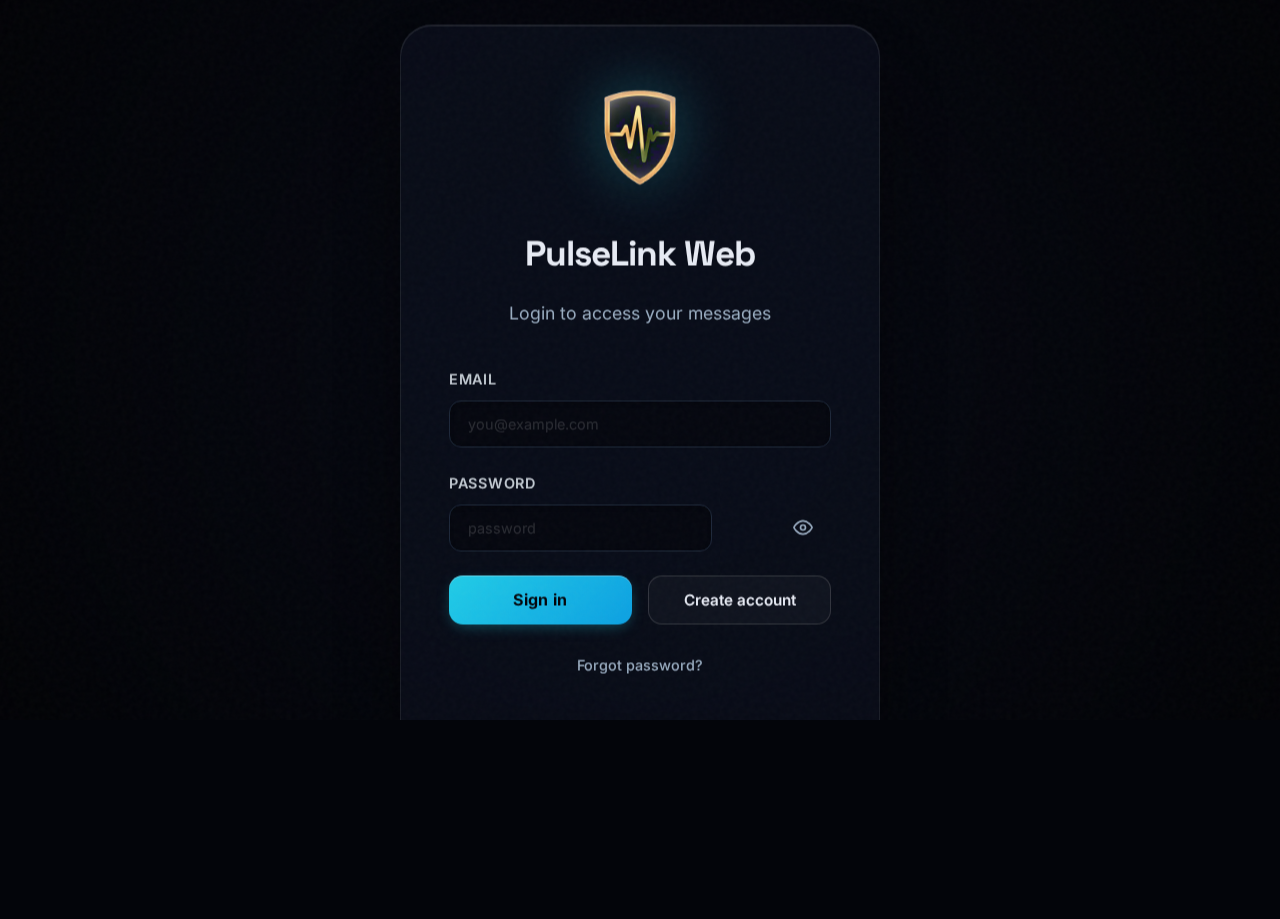
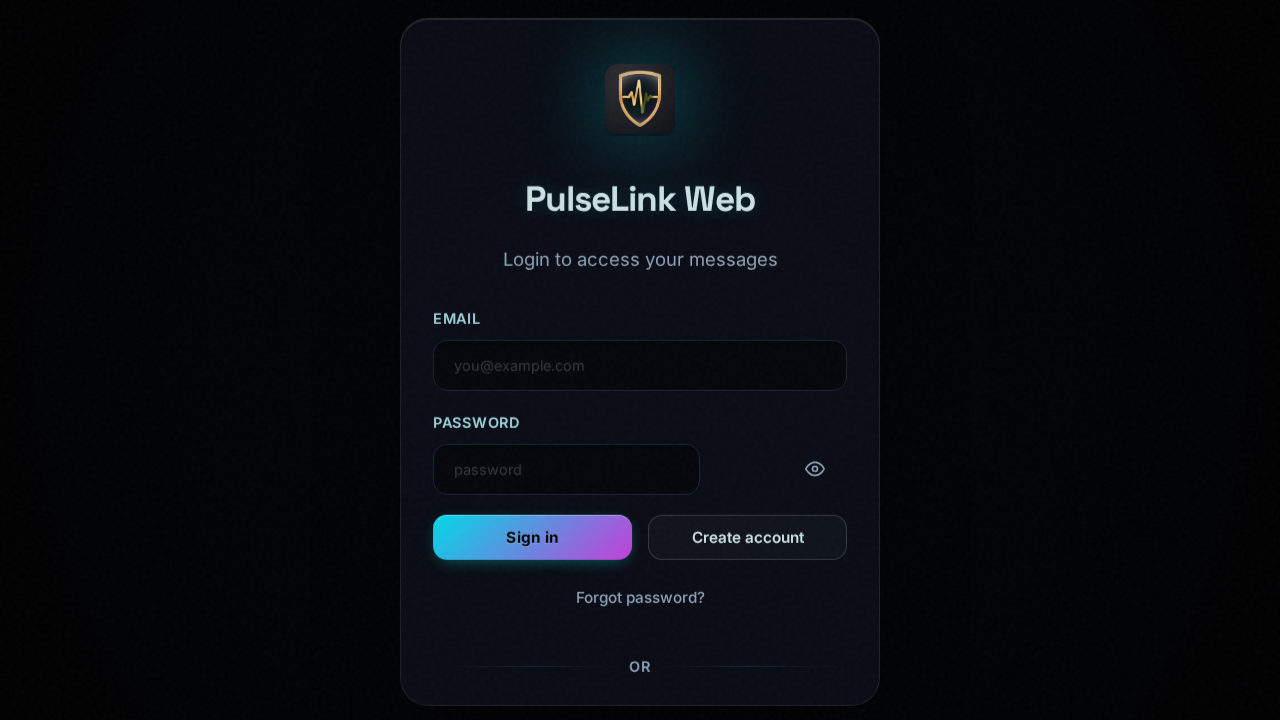
Fix SMS login and email link issues in web app
- Implement Phone Authentication using Firebase Auth
- Conditionally render Phone Auth UI in Login screen
- Fix `mailto` link in Extensions page to include subject and body
- Update `visual.spec.js` to verify "Sign in with Phone" button presence

diff --git a/web/src/App.jsx b/web/src/App.jsx
@@ -9,7 +9,9 @@ import {
   onAuthStateChanged,
   createUserWithEmailAndPassword,
   signInWithEmailAndPassword,
-  sendPasswordResetEmail
+  sendPasswordResetEmail,
+  RecaptchaVerifier,
+  signInWithPhoneNumber
 } from "firebase/auth";
 import {
   collection,
@@ -2023,6 +2025,79 @@ function App() {
   const [isSavingProfile, setIsSavingProfile] = useState(false);
   const [activePanel, setActivePanel] = useState('home');
 
+  // Phone Auth State
+  const [isPhoneAuthMode, setIsPhoneAuthMode] = useState(false);
+  const [phoneNumber, setPhoneNumber] = useState('');
+  const [verificationCode, setVerificationCode] = useState('');
+  const [confirmationResult, setConfirmationResult] = useState(null);
+  const recaptchaVerifierRef = useRef(null);
+
+  // Initialize Recaptcha
+  useEffect(() => {
+    if (!auth || user || !isPhoneAuthMode || recaptchaVerifierRef.current) return;
+    try {
+      // Ensure the container exists before initializing
+      const container = document.getElementById('recaptcha-container');
+      if (container) {
+        recaptchaVerifierRef.current = new RecaptchaVerifier(auth, 'recaptcha-container', {
+          'size': 'normal',
+          'callback': (response) => {
+            // reCAPTCHA solved, allow signInWithPhoneNumber.
+          },
+          'expired-callback': () => {
+            // Response expired. Ask user to solve reCAPTCHA again.
+          }
+        });
+        recaptchaVerifierRef.current.render();
+      }
+    } catch (err) {
+      console.error("Recaptcha init failed", err);
+    }
+  }, [user, isPhoneAuthMode]);
+
+  const handleSendCode = async () => {
+    if (!phoneNumber) {
+      setAuthError("Enter phone number.");
+      return;
+    }
+    setIsLoggingIn(true);
+    setAuthError('');
+    try {
+      const appVerifier = recaptchaVerifierRef.current;
+      const result = await signInWithPhoneNumber(auth, phoneNumber, appVerifier);
+      setConfirmationResult(result);
+      setAuthError('');
+    } catch (error) {
+      console.error("SMS send failed", error);
+      setAuthError(error?.message ?? "SMS send failed.");
+      // Reset recaptcha on error so user can try again
+      if (recaptchaVerifierRef.current) {
+        recaptchaVerifierRef.current.clear();
+        recaptchaVerifierRef.current = null;
+      }
+    } finally {
+      setIsLoggingIn(false);
+    }
+  };
+
+  const handleVerifyCode = async () => {
+    if (!verificationCode || !confirmationResult) {
+      setAuthError("Enter verification code.");
+      return;
+    }
+    setIsLoggingIn(true);
+    setAuthError('');
+    try {
+      await confirmationResult.confirm(verificationCode);
+      // User signed in successfully
+    } catch (error) {
+      console.error("Code verification failed", error);
+      setAuthError(error?.message ?? "Verification failed.");
+    } finally {
+      setIsLoggingIn(false);
+    }
+  };
+
   // Bolt: Reset contact list limit when search or panel changes
   useEffect(() => {
     setContactListLimit(50);
@@ -3468,94 +3543,174 @@ function App() {
             <h1>PulseLink Web</h1>
             <p>Login to access your messages</p>
             <div className="login-form">
-              <label className="login-field">
-                Email
-                <input
-                  className="login-input"
-                  type="email"
-                  value={email}
-                  onChange={(e) => setEmail(e.target.value)}
-                  placeholder="you@example.com"
-                  autoComplete="email"
-                />
-              </label>
-              <div className="login-field">
-                <label htmlFor="login-password">Password</label>
-                <div className="password-input-wrapper">
-                  <input
-                    id="login-password"
-                    className="login-input"
-                    type={showPassword ? "text" : "password"}
-                    value={password}
-                    onChange={(e) => setPassword(e.target.value)}
-                    placeholder="password"
-                    autoComplete="current-password"
-                  />
+              {!isPhoneAuthMode ? (
+                <>
+                  <label className="login-field">
+                    Email
+                    <input
+                      className="login-input"
+                      type="email"
+                      value={email}
+                      onChange={(e) => setEmail(e.target.value)}
+                      placeholder="you@example.com"
+                      autoComplete="email"
+                    />
+                  </label>
+                  <div className="login-field">
+                    <label htmlFor="login-password">Password</label>
+                    <div className="password-input-wrapper">
+                      <input
+                        id="login-password"
+                        className="login-input"
+                        type={showPassword ? "text" : "password"}
+                        value={password}
+                        onChange={(e) => setPassword(e.target.value)}
+                        placeholder="password"
+                        autoComplete="current-password"
+                      />
+                      <button
+                        type="button"
+                        className="password-toggle-btn"
+                        onClick={() => setShowPassword(!showPassword)}
+                        aria-label={showPassword ? "Hide password" : "Show password"}
+                      >
+                        {showPassword ? (
+                          <svg width="20" height="20" viewBox="0 0 24 24" fill="none" stroke="currentColor" strokeWidth="2" strokeLinecap="round" strokeLinejoin="round">
+                            <path d="M17.94 17.94A10.07 10.07 0 0 1 12 20c-7 0-11-8-11-8a18.45 18.45 0 0 1 5.06-5.94M9.9 4.24A9.12 9.12 0 0 1 12 4c7 0 11 8 11 8a18.5 18.5 0 0 1-2.16 3.19m-6.72-1.07a3 3 0 1 1-4.24-4.24"></path>
+                            <line x1="1" y1="1" x2="23" y2="23"></line>
+                          </svg>
+                        ) : (
+                          <svg width="20" height="20" viewBox="0 0 24 24" fill="none" stroke="currentColor" strokeWidth="2" strokeLinecap="round" strokeLinejoin="round">
+                            <path d="M1 12s4-8 11-8 11 8 11 8-4 8-11 8-11-8-11-8z"></path>
+                            <circle cx="12" cy="12" r="3"></circle>
+                          </svg>
+                        )}
+                      </button>
+                    </div>
+                  </div>
+                  {authError && <div className="auth-error" role="alert">{authError}</div>}
+                  <div className="login-actions">
+                    <button
+                      onClick={() => handleEmailAuth('signin')}
+                      disabled={isLoggingIn}
+                      aria-busy={isLoggingIn}
+                      className="primary-btn"
+                    >
+                      {isLoggingIn ? (
+                        <>
+                          <Spinner />
+                          Signing in...
+                        </>
+                      ) : 'Sign in'}
+                    </button>
+                    <button
+                      onClick={() => handleEmailAuth('signup')}
+                      disabled={isLoggingIn}
+                      className="secondary-btn"
+                    >
+                      Create account
+                    </button>
+                  </div>
                   <button
                     type="button"
-                    className="password-toggle-btn"
-                    onClick={() => setShowPassword(!showPassword)}
-                    aria-label={showPassword ? "Hide password" : "Show password"}
+                    className="link-button"
+                    onClick={handlePasswordReset}
+                    disabled={isLoggingIn}
                   >
-                    {showPassword ? (
-                      <svg width="20" height="20" viewBox="0 0 24 24" fill="none" stroke="currentColor" strokeWidth="2" strokeLinecap="round" strokeLinejoin="round">
-                        <path d="M17.94 17.94A10.07 10.07 0 0 1 12 20c-7 0-11-8-11-8a18.45 18.45 0 0 1 5.06-5.94M9.9 4.24A9.12 9.12 0 0 1 12 4c7 0 11 8 11 8a18.5 18.5 0 0 1-2.16 3.19m-6.72-1.07a3 3 0 1 1-4.24-4.24"></path>
-                        <line x1="1" y1="1" x2="23" y2="23"></line>
-                      </svg>
-                    ) : (
-                      <svg width="20" height="20" viewBox="0 0 24 24" fill="none" stroke="currentColor" strokeWidth="2" strokeLinecap="round" strokeLinejoin="round">
-                        <path d="M1 12s4-8 11-8 11 8 11 8-4 8-11 8-11-8-11-8z"></path>
-                        <circle cx="12" cy="12" r="3"></circle>
-                      </svg>
-                    )}
+                    Forgot password?
                   </button>
-                </div>
-              </div>
-              {authError && <div className="auth-error" role="alert">{authError}</div>}
-              <div className="login-actions">
-                <button
-                  onClick={() => handleEmailAuth('signin')}
-                  disabled={isLoggingIn}
-                  aria-busy={isLoggingIn}
-                  className="primary-btn"
-                >
-                  {isLoggingIn ? (
+                  <div className="login-divider">or</div>
+                  <div className="login-actions" style={{ flexDirection: 'column', gap: 8 }}>
+                    <button
+                      onClick={handleLogin}
+                      disabled={isLoggingIn}
+                      aria-busy={isLoggingIn}
+                      className="primary-btn"
+                      style={{ width: '100%' }}
+                    >
+                      {isLoggingIn ? (
+                        <>
+                          <Spinner />
+                          Signing in...
+                        </>
+                      ) : 'Sign in with Google'}
+                    </button>
+                    <button
+                      onClick={() => setIsPhoneAuthMode(true)}
+                      disabled={isLoggingIn}
+                      className="secondary-btn"
+                      style={{ width: '100%' }}
+                    >
+                      Sign in with Phone
+                    </button>
+                  </div>
+                </>
+              ) : (
+                <>
+                  {!confirmationResult ? (
                     <>
-                      <Spinner />
-                      Signing in...
+                      <label className="login-field">
+                        Phone Number
+                        <input
+                          className="login-input"
+                          type="tel"
+                          value={phoneNumber}
+                          onChange={(e) => setPhoneNumber(e.target.value)}
+                          placeholder="+1 555 555 5555"
+                        />
+                      </label>
+                      <div id="recaptcha-container"></div>
                     </>
-                  ) : 'Sign in'}
-                </button>
-                <button
-                  onClick={() => handleEmailAuth('signup')}
-                  disabled={isLoggingIn}
-                  className="secondary-btn"
-                >
-                  Create account
-                </button>
-              </div>
-              <button
-                type="button"
-                className="link-button"
-                onClick={handlePasswordReset}
-                disabled={isLoggingIn}
-              >
-                Forgot password?
-              </button>
-              <div className="login-divider">or</div>
-              <button
-                onClick={handleLogin}
-                disabled={isLoggingIn}
-                aria-busy={isLoggingIn}
-                className="primary-btn"
-              >
-                {isLoggingIn ? (
-                  <>
-                    <Spinner />
-                    Signing in...
-                  </>
-                ) : 'Sign in with Google'}
-              </button>
+                  ) : (
+                    <label className="login-field">
+                      Verification Code
+                      <input
+                        className="login-input"
+                        type="text"
+                        value={verificationCode}
+                        onChange={(e) => setVerificationCode(e.target.value)}
+                        placeholder="123456"
+                      />
+                    </label>
+                  )}
+                  {authError && <div className="auth-error" role="alert">{authError}</div>}
+                  <div className="login-actions" style={{ flexDirection: 'column', gap: 8 }}>
+                    {!confirmationResult ? (
+                      <button
+                        onClick={handleSendCode}
+                        disabled={isLoggingIn}
+                        aria-busy={isLoggingIn}
+                        className="primary-btn"
+                        style={{ width: '100%' }}
+                      >
+                         {isLoggingIn ? <><Spinner /> Sending...</> : 'Send Code'}
+                      </button>
+                    ) : (
+                      <button
+                        onClick={handleVerifyCode}
+                        disabled={isLoggingIn}
+                        aria-busy={isLoggingIn}
+                        className="primary-btn"
+                        style={{ width: '100%' }}
+                      >
+                         {isLoggingIn ? <><Spinner /> Verifying...</> : 'Verify Code'}
+                      </button>
+                    )}
+                    <button
+                      onClick={() => {
+                        setIsPhoneAuthMode(false);
+                        setConfirmationResult(null);
+                        setAuthError('');
+                      }}
+                      disabled={isLoggingIn}
+                      className="secondary-btn"
+                      style={{ width: '100%' }}
+                    >
+                      Back to Email Login
+                    </button>
+                  </div>
+                </>
+              )}
             </div>
           </div>
         </div>
@@ -4515,7 +4670,7 @@ function App() {
                 <p className="settings-note">Share your extension with other testers.</p>
                 <div className="settings-row" style={{gap: 8, flexWrap: 'wrap'}}>
                   <a className="secondary-btn" href="https://github.com/DamienLove/pulselink/blob/Suite-Beta/docs/extensions-dev.md" target="_blank" rel="noreferrer">Read dev guide</a>
-                  <a className="ghost-btn" href="mailto:extensions@pulselink.app?subject=PulseLink%20Extension%20Submission">Email us your zip</a>
+                  <a className="ghost-btn" href="mailto:extensions@pulselink.app?subject=PulseLink%20Extension%20Submission&body=Please%20attach%20your%20extension%20zip%20file%20and%20provide%20a%20brief%20description.">Email us your zip</a>
                 </div>
               </div>
             </div>

diff --git a/verification/verify_phone_login.js b/verification/verify_phone_login.js
@@ -1,0 +1,22 @@
+import { chromium } from 'playwright';
+
+(async () => {
+  const browser = await chromium.launch();
+  const page = await browser.newPage();
+  // Ensure the dev server is running on port 5173
+  await page.goto('http://localhost:5173');
+
+  // Wait for the login card
+  await page.waitForSelector('.login-card');
+
+  // Click 'Sign in with Phone'
+  await page.getByRole('button', { name: 'Sign in with Phone' }).click();
+
+  // Wait for phone input
+  await page.waitForSelector('input[type="tel"]');
+
+  // Take screenshot
+  await page.screenshot({ path: 'verification/phone_login.png' });
+
+  await browser.close();
+})();

diff --git a/web/tests/visual.spec.js b/web/tests/visual.spec.js
@@ -13,6 +13,7 @@ test('visual verification of login page', async ({ page }) => {
   await expect(page.locator('.login-card')).toBeVisible();
   await expect(page.locator('.brand-logo')).toBeVisible();
   await expect(page.getByText('PulseLink Web')).toBeVisible();
+  await expect(page.getByRole('button', { name: 'Sign in with Phone' })).toBeVisible();
 
   // Verify Fonts are loaded (Inter and Space Grotesk)
   // This is a basic check to see if the computed style matches
